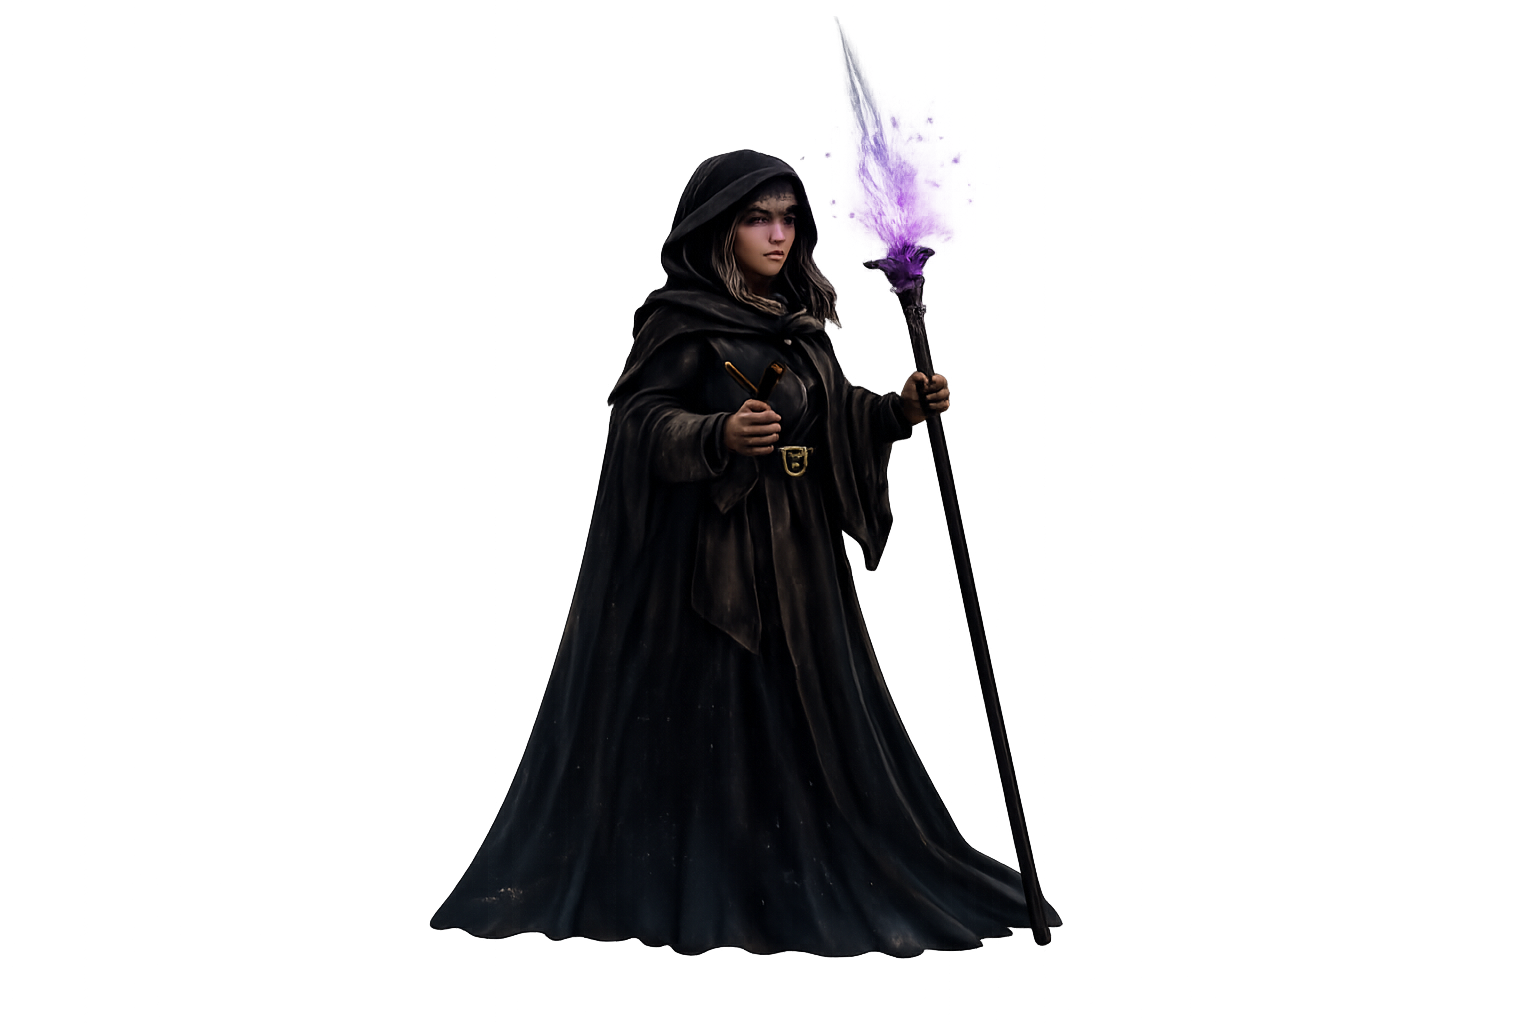
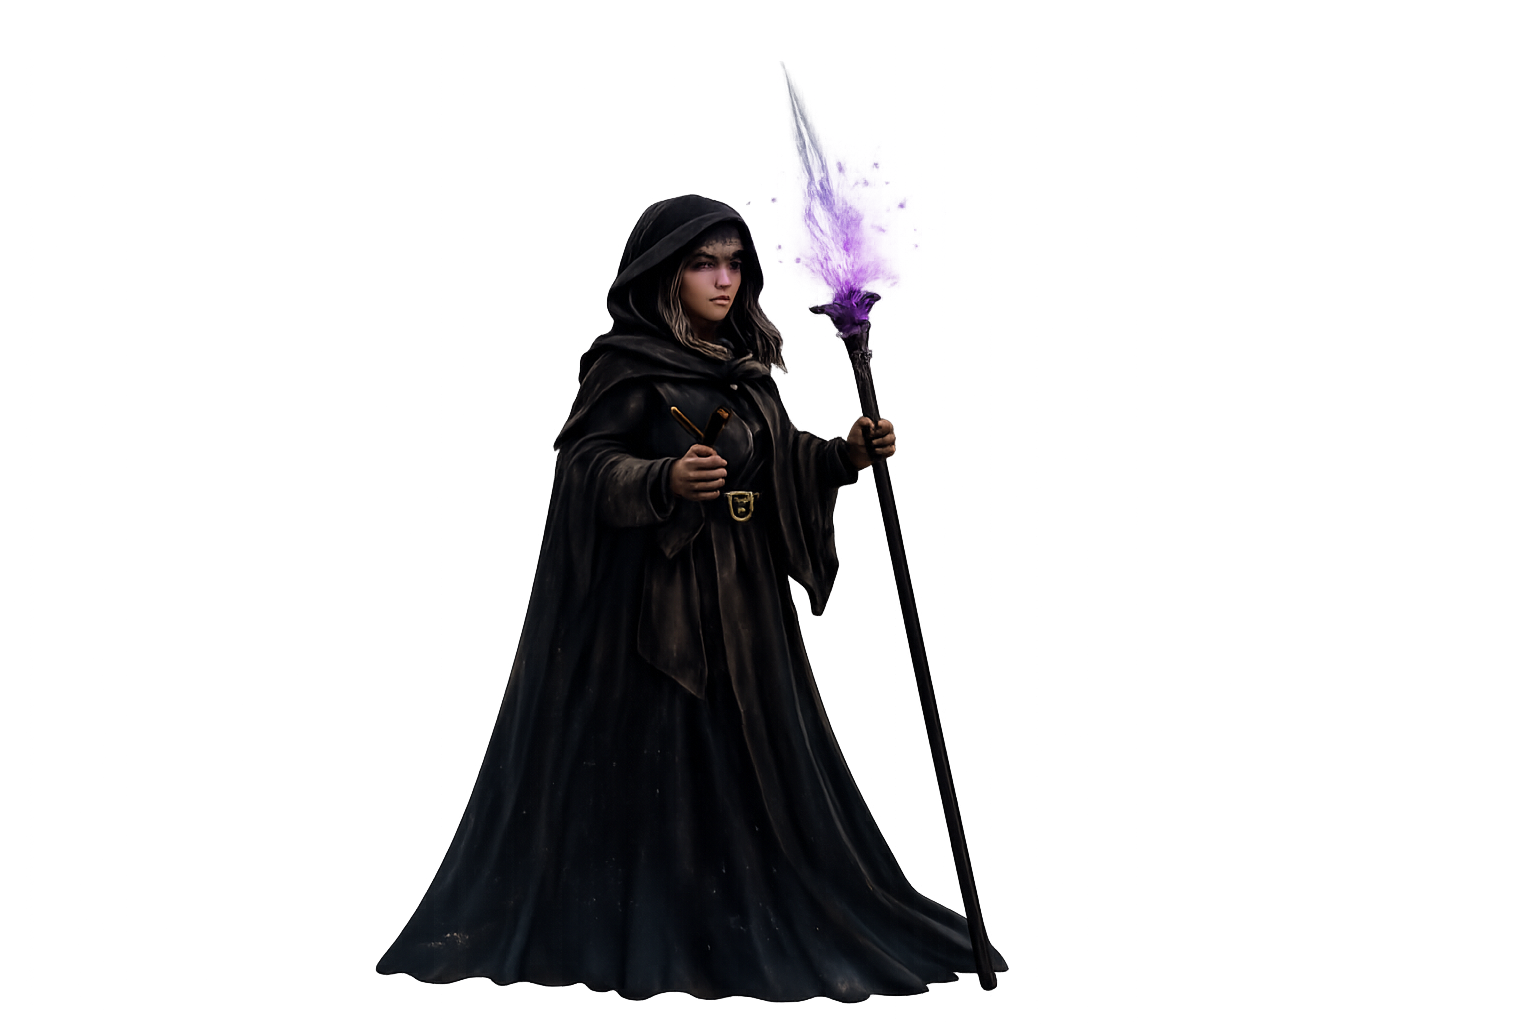
changed character assets so they are all level and changed accordinly in code

Changed region(s): [[0.25, 0.0312, 0.6875, 1.0]]

diff --git a/src/game/controllers/groupEncounterController.js b/src/game/controllers/groupEncounterController.js
@@ -85,14 +85,14 @@ export function createGroupEncounterController(scene, ui, sceneData) {
 
 		if (!state.groupMonsterSprite) {
 			state.groupMonsterSprite = scene.add
-				.image(980, 380, monster.image_name)
+				.image(980, 340, monster.image_name)
 				.setOrigin(0.5)
 				.setScale(0.5);
 		} else {
 			scene.tweens.killTweensOf(state.groupMonsterSprite);
 			state.groupMonsterSprite.clearTint();
 			state.groupMonsterSprite.setTexture(monster.image_name);
-			state.groupMonsterSprite.setPosition(980, 380);
+			state.groupMonsterSprite.setPosition(980, 340);
 			state.groupMonsterSprite.setScale(0.5);
 		}
 
@@ -164,14 +164,14 @@ export function createGroupEncounterController(scene, ui, sceneData) {
 
 		if (!state.groupMonsterSprite) {
 			state.groupMonsterSprite = scene.add
-				.image(980, 380, nextMonster.image_name)
+				.image(980, 340, nextMonster.image_name)
 				.setOrigin(0.5)
 				.setScale(0.5);
 		} else {
 			scene.tweens.killTweensOf(state.groupMonsterSprite);
 			state.groupMonsterSprite.clearTint();
 			state.groupMonsterSprite.setTexture(nextMonster.image_name);
-			state.groupMonsterSprite.setPosition(980, 380);
+			state.groupMonsterSprite.setPosition(980, 340);
 			state.groupMonsterSprite.setScale(0.5);
 		}
 	}

diff --git a/src/game/ui/characterLoadingUI.js b/src/game/ui/characterLoadingUI.js
@@ -1,20 +1,20 @@
 export function createPlayerSprites(scene, groupPlayers) {
   const positionsByCount = {
-    1: [{ x: 250, y: 380 }],
+    1: [{ x: 250, y: 350 }],
     2: [
-      { x: 220, y: 330 },
-      { x: 300, y: 430 },
+      { x: 250, y: 350 },
+      { x: 380, y: 350 },
     ],
     3: [
-      { x: 210, y: 300 },
-      { x: 280, y: 380 },
-      { x: 350, y: 460 },
+      { x: 120, y: 350 },
+      { x: 250, y: 350 },
+      { x: 380, y: 350 },
     ],
     4: [
-      { x: 190, y: 280 },
-      { x: 250, y: 360 },
-      { x: 320, y: 430 },
-      { x: 390, y: 500 },
+      { x: 120, y: 350 },
+      { x: 250, y: 350 },
+      { x: 380, y: 350 },
+      { x: 510, y: 250 },
     ],
   };
 
